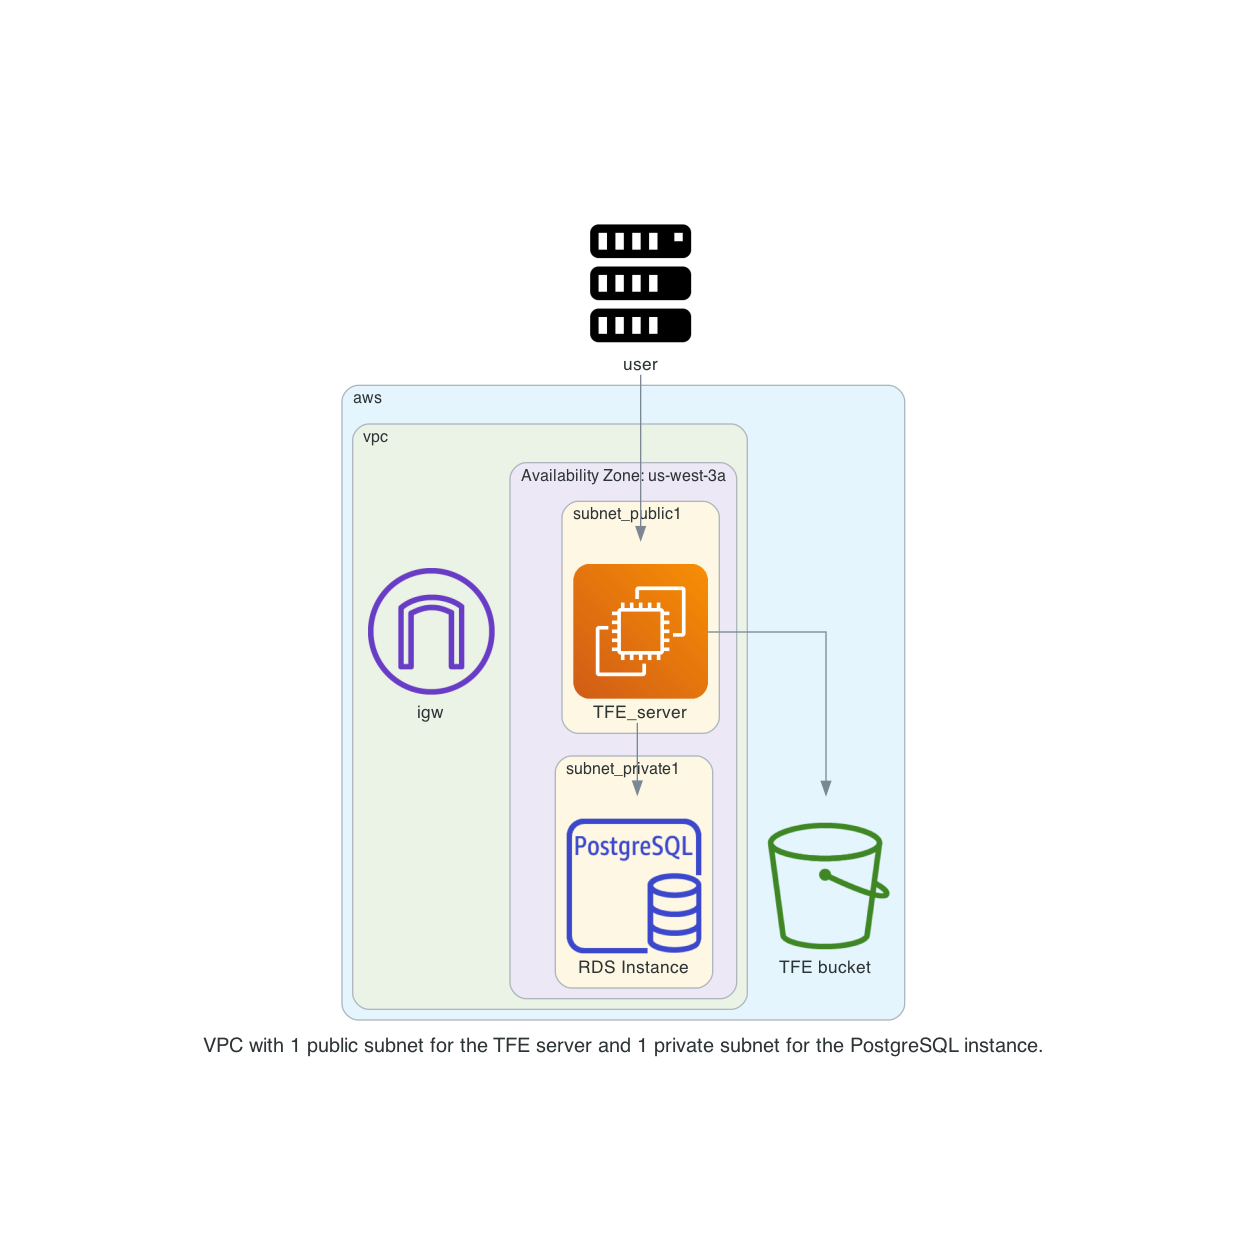
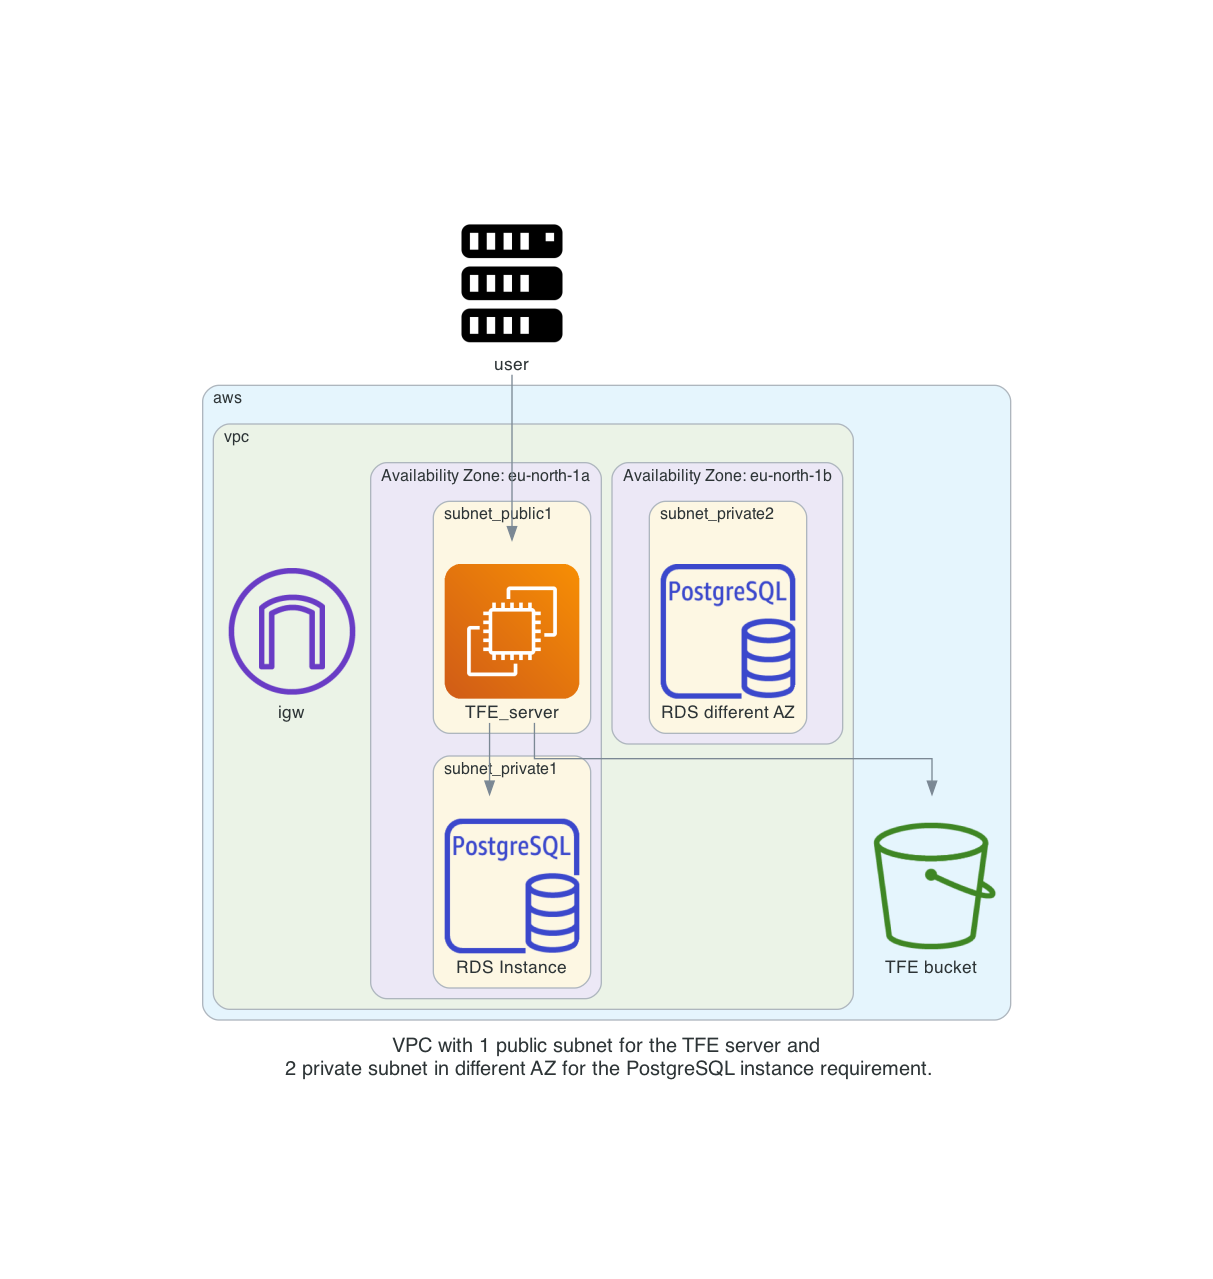
diagramt changes because of first creation manual

Changed region(s): [[0.1525, 0.1553, 0.8541, 0.8384]]

diff --git a/diagram/diagram_airgap.py b/diagram/diagram_airgap.py
@@ -6,7 +6,7 @@ from diagrams.aws.storage import SimpleStorageServiceS3Bucket
 from diagrams.aws.database import RDSPostgresqlInstance
 
 # Variables
-title = "VPC with 1 public subnet for the TFE server and 1 private subnet for the PostgreSQL instance."
+title = "VPC with 1 public subnet for the TFE server and\n 2 private subnet in different AZ for the PostgreSQL instance requirement."
 outformat = "png"
 filename = "diagram-airgap"
 direction = "TB"
@@ -27,14 +27,17 @@ with Diagram(
         with Cluster("vpc"):
             igw_gateway = InternetGateway("igw")
     
-            with Cluster("Availability Zone: us-west-3a"):
+            with Cluster("Availability Zone: eu-north-1b"):        
+                # Subcluster
+                with Cluster("subnet_private2"):
+                    postgresql2 = RDSPostgresqlInstance("RDS different AZ")
+            with Cluster("Availability Zone: eu-north-1a"):
                 # Subcluster 
                 with Cluster("subnet_public1"):
                      ec2_tfe_server = EC2("TFE_server")
                 # Subcluster
                 with Cluster("subnet_private1"):
                     postgresql = RDSPostgresqlInstance("RDS Instance")
- 
     # Diagram
     user >> ec2_tfe_server 
 
